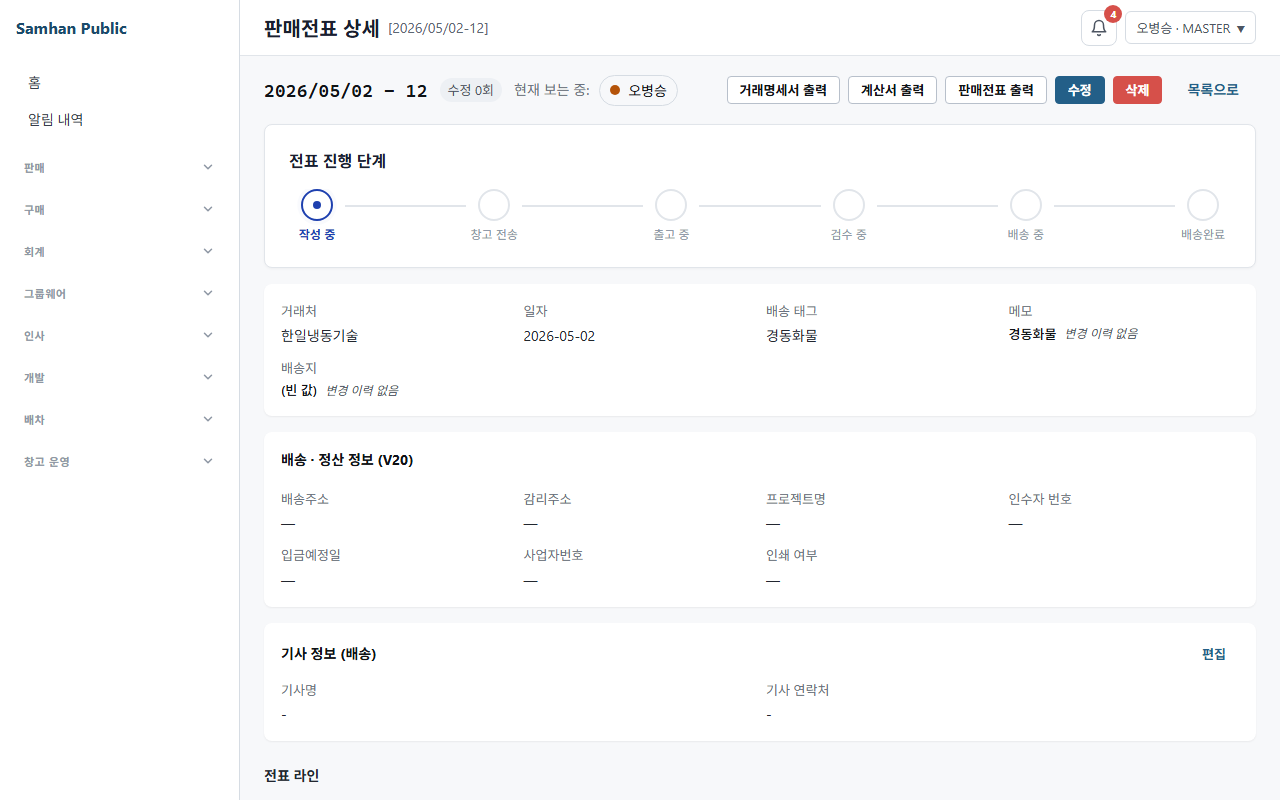
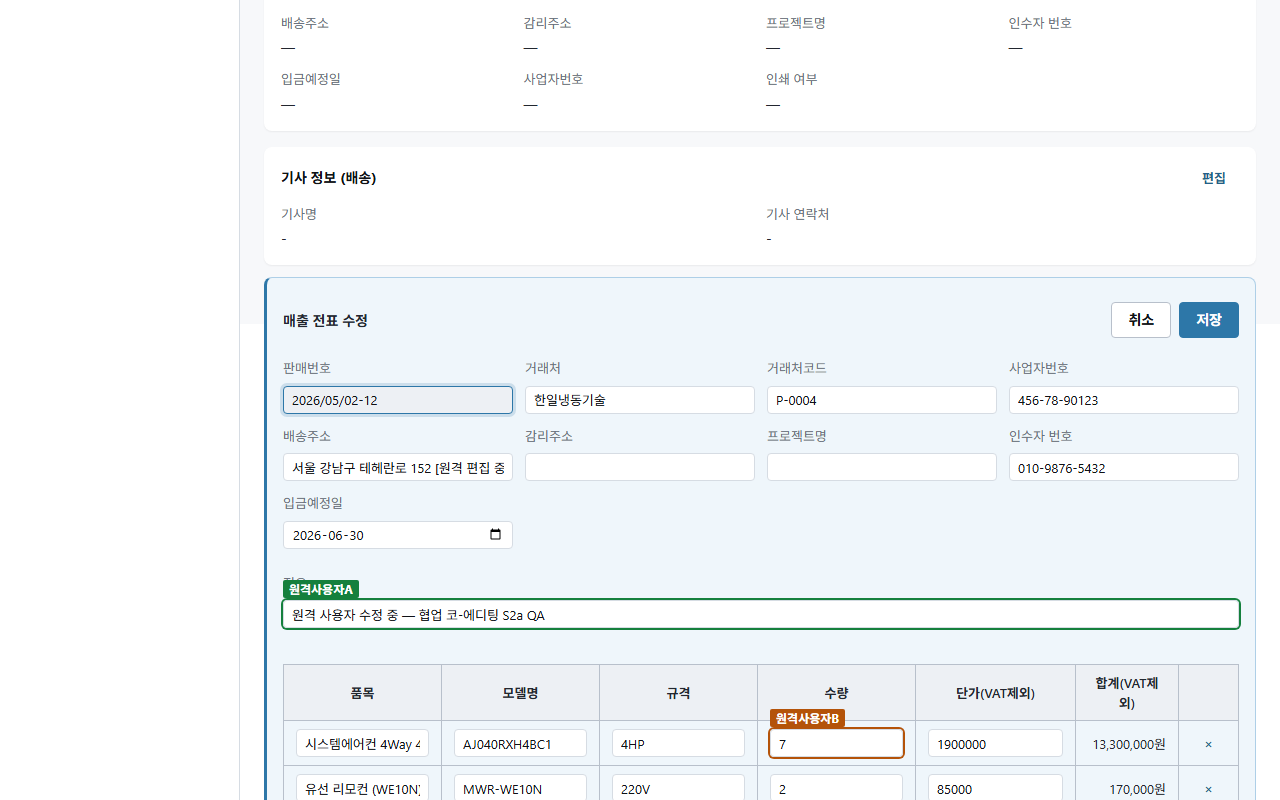
[FIX] E1-b-1 Opus 라운드1 — 편집중 툴바 숨김(데이터무결성)·auto-scroll·VAT제외 라벨·accent/sticky·2세션 coedit QA
Opus 5-agent 라운드1 Opus 직접 fix: [BLOCKING] read-only 툴바(행삭제=draft 우회 즉시 DELETE→stale 409) 편집중 숨김. [BLOCKING] salesEditOpen useEffect scrollIntoView+focus+라인선택 초기화. [HIGH] 단가/합계 (VAT제외) 라벨. [MED] sticky 저장헤더·brand accent 편집중 신호. [LOW/NIT] 토큰화·dead CSS 제거·heading dup 해소. 라이브 2세션 coedit QA(mock OFF·slip 재빌드): auto-scroll+accent+VAT라벨+툴바숨김 실캡처 + A입력→B SSE 수신. typecheck+Playwright 12/12.

Claude-Session: https://claude.ai/code/session_01CaRChNtmh8Tn1WUtQpFfNK

diff --git a/clients/desktop/playwright/e1b1-sales-inline-edit-real-qa/sales-inline-edit-2session-real-qa.spec.ts b/clients/desktop/playwright/e1b1-sales-inline-edit-real-qa/sales-inline-edit-2session-real-qa.spec.ts
@@ -1,0 +1,114 @@
+/**
+ * E1-b-1 매출 전표 상세 품목행 인라인 편집 — 실서버 2세션 coedit GUI QA.
+ *
+ * 검증: (1) '수정' 클릭 시 인라인 편집 폼이 auto-scroll 로 뷰에 들어오고 accent 신호 표시(구 모달 대체),
+ *      (2) 라이브 coedit 보존 — 세션A 가 인라인 편집 필드 입력 → 세션B 가 SSE 로 동일 값 수신.
+ * 실 게이트웨이 :8080 · mock OFF · dev_master · DRAFT/SAVED 매출(OUTBOUND) 실 슬립. 합성 없음.
+ */
+import { expect, test, type Page } from '@playwright/test'
+import * as path from 'path'
+import * as fs from 'fs'
+import { fileURLToPath } from 'url'
+
+const _dirname =
+  typeof __dirname !== 'undefined' ? __dirname : path.dirname(fileURLToPath(import.meta.url))
+const BASE_URL = process.env['AUDIT_BASE_URL'] ?? 'http://127.0.0.1:5175'
+const API_BASE = process.env['API_BASE'] ?? 'http://localhost:8080'
+const PASSWORD = process.env['DEV_PASSWORD'] ?? ''
+const SHOTS = path.resolve(_dirname, '../../../../docs/qa/e1b1-sales-inline-edit')
+fs.mkdirSync(SHOTS, { recursive: true })
+
+let shotNo = 0
+async function capture(page: Page, name: string, fullPage = false): Promise<void> {
+  shotNo++
+  await page.screenshot({ path: path.join(SHOTS, `gui-${String(shotNo).padStart(2, '0')}-${name}.png`), fullPage })
+}
+
+interface LoginResult { token: string; role: string; userId: string; displayName: string }
+
+async function realLogin(page: Page, loginId: string): Promise<LoginResult> {
+  expect(PASSWORD, 'DEV_PASSWORD 환경변수 필수').toBeTruthy()
+  const res = await page.request.post(`${API_BASE}/auth/login`, { data: { loginId, password: PASSWORD } })
+  expect(res.ok(), `로그인 실패(${loginId}): HTTP ${res.status()}`).toBeTruthy()
+  const d = (await res.json()).data ?? {}
+  return { token: d.token ?? '', role: d.role ?? '', userId: d.userId ?? '', displayName: d.displayName ?? loginId }
+}
+
+async function installAuthStub(page: Page, login: LoginResult): Promise<void> {
+  await page.addInitScript(
+    ({ tok, r, uid, name }: { tok: string; r: string; uid: string; name: string }) => {
+      Object.defineProperty(window, 'samhanAuth', {
+        configurable: true,
+        value: {
+          getToken: async () => ({ token: tok, userId: uid, role: r, fullName: name, partnerCode: null }),
+          setToken: async () => undefined,
+          clearToken: async () => undefined,
+        },
+      })
+    },
+    { tok: login.token, r: login.role, uid: login.userId, name: login.displayName },
+  )
+}
+
+async function openSalesInlineEdit(page: Page, slipId: string): Promise<void> {
+  await page.goto(`${BASE_URL}/#/sales/${slipId}`)
+  await page.waitForSelector('[data-testid="slip-detail-revision-count"]', { timeout: 30000 })
+  await page.getByTestId('sales-slip-edit-button').click()
+  await page.waitForSelector('[data-testid="sales-slip-edit-modal"]', { timeout: 15000 })
+  await page.waitForTimeout(1200) // auto-scroll effect + coedit provider seed
+}
+
+function memoField(page: Page) {
+  return page.getByTestId('slip-coedit-field-header-memo').locator('textarea, input').first()
+}
+
+test('E1-b-1 매출 인라인 편집 — auto-scroll + 2세션 coedit(A입력→B SSE 수신)', async ({ browser }) => {
+  const ctxA = await browser.newContext({ viewport: { width: 1440, height: 900 } })
+  const pageA = await ctxA.newPage()
+  const loginA = await realLogin(pageA, 'dev_master')
+  await installAuthStub(pageA, loginA)
+
+  // DRAFT/SAVED 매출(OUTBOUND) 슬립 1건(linesEditable).
+  const listRes = await pageA.request.get(`${API_BASE}/api/v1/slips?page=0&size=100`, {
+    headers: { Authorization: `Bearer ${loginA.token}` },
+  })
+  expect(listRes.ok(), `슬립 리스트 HTTP ${listRes.status()}`).toBeTruthy()
+  const content = (await listRes.json()).data?.content ?? []
+  const editable = content.find(
+    (s: { status?: string; slipType?: string }) =>
+      (s.status === 'DRAFT' || s.status === 'SAVED') && (!s.slipType || s.slipType === 'OUTBOUND'),
+  )
+  expect(editable, 'DRAFT/SAVED 매출 전표 최소 1건 필요').toBeTruthy()
+  const slipId: string = editable.id
+
+  // 세션A: 매출 상세 → '수정' → 인라인 편집(auto-scroll + accent).
+  await openSalesInlineEdit(pageA, slipId)
+  await expect(pageA.getByTestId('sales-slip-edit-modal')).toBeVisible()
+  // auto-scroll 로 인라인 폼이 뷰포트 안에 들어왔는지(상단 근처).
+  const boxA = await pageA.getByTestId('sales-slip-edit-modal').boundingBox()
+  expect(boxA, '인라인 폼 boundingBox').not.toBeNull()
+  if (boxA) expect(boxA.y, 'auto-scroll 후 폼 상단이 뷰포트 상단 근처').toBeLessThan(400)
+  await capture(pageA, 'sessionA-inline-edit-autoscroll-accent')
+
+  // 세션A: 협업 메모(coedit) 입력.
+  const marker = `E1B1-COEDIT-${loginA.userId.slice(0, 6)}`
+  const memoA = memoField(pageA)
+  await memoA.click()
+  await memoA.fill(marker)
+  await pageA.waitForTimeout(900) // coedit local→provider→SSE 전파
+  await capture(pageA, 'sessionA-memo-coedit-input')
+
+  // 세션B: 동일 슬립 인라인 편집 진입 → A 의 coedit 값 SSE 수신 확인.
+  const ctxB = await browser.newContext({ viewport: { width: 1440, height: 900 } })
+  const pageB = await ctxB.newPage()
+  await installAuthStub(pageB, await realLogin(pageB, 'dev_master'))
+  await openSalesInlineEdit(pageB, slipId)
+  const memoB = memoField(pageB)
+  await expect
+    .poll(async () => (await memoB.inputValue()).includes(marker), { timeout: 15000, intervals: [500, 1000, 2000] })
+    .toBe(true)
+  await capture(pageB, 'sessionB-coedit-sse-received')
+
+  await ctxA.close()
+  await ctxB.close()
+})

diff --git a/clients/desktop/src/renderer/routes/SlipDetailPage.tsx b/clients/desktop/src/renderer/routes/SlipDetailPage.tsx
@@ -459,6 +459,19 @@ export function SlipDetailPage({ mode }: SlipDetailPageProps) {
   const [purchasePaymentDueDate, setPurchasePaymentDueDate] = useState('')
   const [purchaseEditLines, setPurchaseEditLines] = useState<PurchaseEditLine[]>([])
   const purchaseReloadSuccessTimerRef = useRef<ReturnType<typeof setTimeout> | null>(null)
+  // 매출 인라인 편집 폼 — 진입 시 뷰 스크롤+포커스용 ref (구 모달 즉시노출/auto-focus 대체).
+  const salesEditFormRef = useRef<HTMLElement>(null)
+  // 매출 인라인 편집 진입 시: read-only 라인 선택/체크 초기화(숨긴 툴바 잔존상태 방지) + 폼으로 스크롤 + 첫 입력 포커스.
+  // 인라인 폼이 전표라인 자리(fold 아래) 렌더라 스크롤 없으면 편집 진입을 인지 못함(리뷰 R1 Design/FE BLOCKING·DevOps).
+  useEffect(() => {
+    if (!(salesEditOpen && mode === 'OUTBOUND')) return
+    setSelectedLineId(null)
+    setCheckedLineIds(new Set())
+    const el = salesEditFormRef.current
+    if (!el) return
+    el.scrollIntoView({ behavior: 'smooth', block: 'start' })
+    el.querySelector<HTMLElement>('input, textarea, [contenteditable="true"]')?.focus?.()
+  }, [salesEditOpen, mode])
   // §7 협업 수정완료: 확정/완료 전표도 물리 종결 전이면 overlay 필드 편집 가능.
   const [collabEditMode, setCollabEditMode] = useState(false)
   const [slipFormCoeditProvider, setSlipFormCoeditProvider] = useState<DocCoeditProvider | null>(null)
@@ -1318,6 +1331,7 @@ export function SlipDetailPage({ mode }: SlipDetailPageProps) {
   */
   const salesEditInlineForm = (
     <section
+      ref={salesEditFormRef}
       className="sales-edit-inline"
       aria-label="매출 전표 수정"
       data-testid="sales-slip-edit-modal"
@@ -1477,8 +1491,8 @@ export function SlipDetailPage({ mode }: SlipDetailPageProps) {
               <th>모델명</th>
               <th>규격</th>
               <th>수량</th>
-              <th>단가</th>
-              <th>합계</th>
+              <th>단가(VAT제외)</th>
+              <th>합계(VAT제외)</th>
               <th aria-label="행 삭제" />
             </tr>
           </thead>
@@ -2326,6 +2340,11 @@ export function SlipDetailPage({ mode }: SlipDetailPageProps) {
         </Card>
       ) : null}
 
+      {/* 매출 인라인 편집 중에는 read-only 전용 툴바(재고조회·선택라인 행삭제 등)를 숨긴다 —
+          행삭제는 인라인 draft 를 우회해 즉시 BE DELETE 라 stale draft→저장 시 409("다른 사용자") 오인
+          위험(리뷰 라운드1 Design/FE BLOCKING). 편집 시 라인 삭제는 인라인 표의 행별 × 사용. */}
+      {!(salesEditOpen && mode === 'OUTBOUND') ? (
+        <>
       <h4 className="detail-section-title detail-mobile-hide" style={{ marginTop: 24 }}>전표 라인</h4>
 
       {/*
@@ -2413,6 +2432,8 @@ export function SlipDetailPage({ mode }: SlipDetailPageProps) {
           좌측 번호를 클릭하면 해당 라인을 선택할 수 있습니다 (순서 수정 / 추가 / 삭제).
         </p>
       )}
+        </>
+      ) : null}
 
       {salesEditOpen && mode === 'OUTBOUND' ? (
         salesEditInlineForm

diff --git a/clients/desktop/src/renderer/styles/global.css b/clients/desktop/src/renderer/styles/global.css
@@ -1643,9 +1643,11 @@ button {
   gap: 12px;
   margin-top: 12px;
   padding: 16px;
-  border: 1px solid var(--color-neutral-200, #E5E7EB);
-  border-radius: 8px;
-  background: #fff;
+  /* 편집 중 시각 신호 — read-only 카드(shadow-sm·투명테두리)와 구분되게 brand accent + 옅은 틴트(리뷰 R1 Design MED). */
+  border: 1px solid var(--color-brand-200, #BFD9EA);
+  border-left: 3px solid var(--color-brand-500, #2D77A8);
+  border-radius: var(--radius-lg, 8px);
+  background: var(--color-brand-50, #F0F6FA);
 }
 .sales-edit-inline-header {
   display: flex;
@@ -1653,6 +1655,12 @@ button {
   justify-content: space-between;
   gap: 12px;
   flex-wrap: wrap;
+  /* 라인 많아 폼이 길어져도 저장/취소 도달 가능하도록 상단 고정(구 모달 footer 대체, 리뷰 R1 Design MED). */
+  position: sticky;
+  top: 0;
+  z-index: 2;
+  padding: 8px 0;
+  background: var(--color-brand-50, #F0F6FA);
 }
 .sales-edit-inline-header .detail-section-title {
   margin: 0;
@@ -1667,14 +1675,6 @@ button {
   display: flex;
   flex-direction: column;
   gap: var(--space-1);
-}
-.sales-edit-field-grid {
-  display: grid;
-  grid-template-columns: 1fr 1fr;
-  gap: var(--space-2);
-}
-.sales-edit-field-span2 {
-  grid-column: span 2;
 }
 .sales-edit-memo {
   margin-top: 12px;

diff --git a/clients/desktop/playwright/e1b1-sales-inline-edit-real-qa/playwright.config.ts b/clients/desktop/playwright/e1b1-sales-inline-edit-real-qa/playwright.config.ts
@@ -1,0 +1,21 @@
+/**
+ * E1-b-1 매출 전표 인라인 편집 — 실서버 2세션 coedit GUI QA 전용 Playwright 설정.
+ * VITE_MOCK_MODE OFF — 실 게이트웨이 :8080. 렌더러 :5175 선기동 필요.
+ */
+import { defineConfig, devices } from '@playwright/test'
+
+export default defineConfig({
+  testDir: '.',
+  timeout: 180_000,
+  retries: 0,
+  workers: 1,
+  reporter: [['line']],
+  use: {
+    baseURL: process.env['AUDIT_BASE_URL'] ?? 'http://127.0.0.1:5175',
+    viewport: { width: 1440, height: 900 },
+    screenshot: 'on',
+    video: 'off',
+    headless: true,
+  },
+  projects: [{ name: 'chromium', use: { ...devices['Desktop Chrome'] } }],
+})

diff --git a/docs/dev-reports/2026-07-03-e1b-1-sales-slip-inline-edit.md b/docs/dev-reports/2026-07-03-e1b-1-sales-slip-inline-edit.md
@@ -1,0 +1,28 @@
+# E1-b-1 매출 전표 상세 품목행 인라인 편집 (E1-b 분할 1/2)
+
+- **PR**: #703 · **일자**: 2026-07-03 · **구현**: Codex(gpt-5.5) · **리뷰/fix**: 순차 듀얼리뷰(Opus 5-agent + Codex)
+
+## 목표 (개발책임자 확정)
+전표 상세 매출(OUTBOUND) '수정' 클릭 시 **별도 모달 대신 상세화면 인라인 편집**. linesEditable=DRAFT/SAVED. 매입(INBOUND)=E1-b-2 후속. 협업(collabEditMode)=범위 밖.
+
+## 구현 (Codex)
+매출 편집 `<Modal>`→상세화면 인라인 `<section>`(`salesEditOpen && OUTBOUND` 시 read-only 10컬럼→편집 7컬럼 스왑). testid(`sales-slip-edit-*`)·coedit provider effect·낙관락 updatedAt·409/422·행추가 부재 보존. 매입 Modal·협업 무변경. 라이브 스펙(slip-collab-panel·coedit-s2a) dialog→인라인 갱신.
+
+## ⚠ 개발책임자 morning 확인 (권장방향 진행)
+편집 중 라인 = 7컬럼(품목/모델명/규격/수량/**단가(VAT제외)/합계(VAT제외)**), read-only는 10컬럼(VAT포함·공급가액·부가세) 유지. VAT 분해 편집 미표시 — 다른 방향 원하면 조정.
+
+## 순차 듀얼리뷰 — Opus 라운드1 적발·fix (Opus 직접, coedit 회귀 최우선 검증)
+- **[BLOCKING·Design/FE·데이터무결성]** read-only 전용 툴바(재고조회+선택라인 **행삭제**)가 인라인 편집 중에도 활성 — 행삭제=draft 우회 즉시 BE DELETE → stale draft 저장 시 409("다른 사용자") 오인(FE 라이브 재현: `DELETE /slips/{id}/lines/{lineId}` 실발행). → **편집 중 툴바+전표라인 h4 숨김**(`!(salesEditOpen&&OUTBOUND)`).
+- **[BLOCKING·Design + MED·DevOps/FE]** '수정' 클릭 시 인라인 폼이 fold 아래 렌더인데 auto-scroll/피드백 없음 → 사용자 편집 진입 미인지(구 모달=fixed 오버레이 대비 회귀). → **salesEditOpen useEffect: scrollIntoView + 첫 입력 focus + 라인선택 초기화**.
+- **[HIGH·Design]** 편집 컬럼 VAT 라벨 부재(단가 110,000→100,000 raw 혼란). → **"단가(VAT제외)"/"합계(VAT제외)" 라벨**.
+- **[MED·Design]** 저장/취소 미고정(긴 표 스크롤) → **sticky 헤더**. 편집중 신호 약함 → **brand accent 좌측바+틴트**.
+- **[LOW·Design]** global.css 하드코딩 → 토큰(`--color-bg`/`--radius-lg`). **[NIT]** dead CSS(`.sales-edit-field-grid`) 제거·heading dup(전표라인 h4) 해소.
+
+## 검증
+- typecheck(node+web) 통과 · Playwright **12/12**(`slip-collab-panel` 5[S2a inline form]·`coedit-s2a.shots` 2·`sp-08-6-2` 매출계약 5) · `sp-08-5-2`(매입 무회귀) 유지.
+- **라이브 GUI QA — 2세션 coedit**(real-qa `e1b1-sales-inline-edit-real-qa`, mock OFF·:8080·dev_master, 실 DRAFT/SAVED 매출 슬립, slip-service 재빌드본): 세션A '수정'→**인라인 폼 auto-scroll(폼 y<400)+accent 편집중 신호+sticky 저장/취소+VAT제외 라벨+툴바 숨김** 실캡처 → 세션A 협업메모 입력 → **세션B 가 SSE 로 동일 값 수신**(coedit 보존 실증) `docs/qa/e1b1-sales-inline-edit/`.
+
+## 백로그 (비차단·후속)
+- **[HIGH→후속] 모바일 인라인 편집 카드화**: 편집 표가 모바일서도 데스크톱 표(가로스크롤) — **pre-existing 모달 한계**(신규 회귀 아님), E1-b 모바일 개선 후속.
+- **[MED] 헤더 필드 그룹/순서**(거래처코드 편집에만) — pre-existing 모달 필드셋. E1-b-2 공유화 시 정비.
+- E1-b-2(매입 인라인) · a11y(ESC/backdrop 취소) · coedit-s2a 목 캡처 스크롤(실 2세션 QA 로 대체됨).
